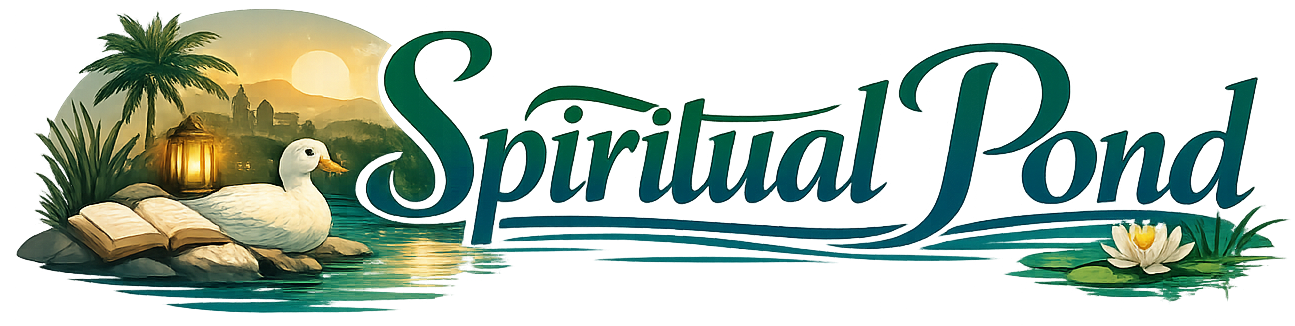
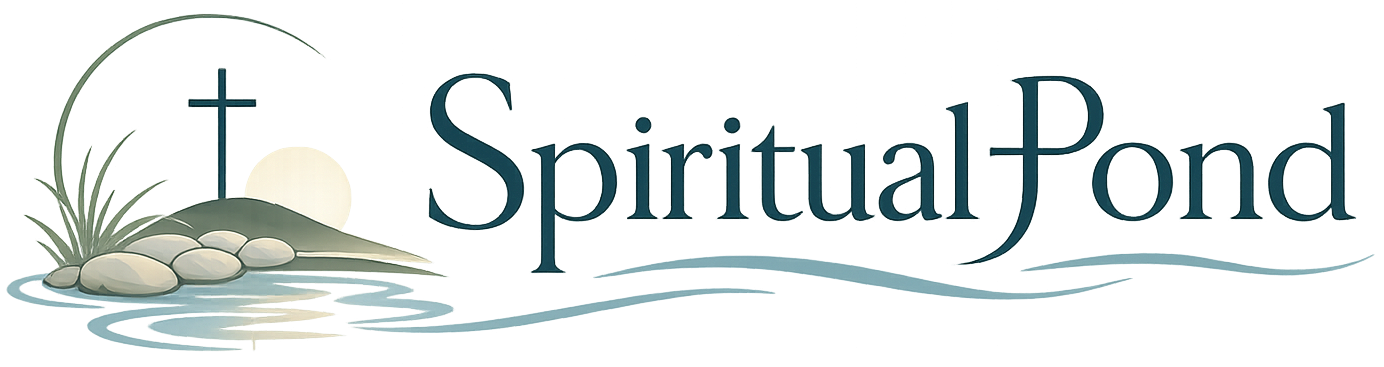
admin

diff --git a/frontend/book.js b/frontend/book.js
@@ -1,5 +1,7 @@
 const BASE_URL = "http://localhost:1337";
 const id = new URLSearchParams(location.search).get("id");
+const token = localStorage.getItem("token");
+const authHeader = { headers: { Authorization: `Bearer ${token}` } };
 
 const renderBook = async () => {
     const response = await axios.get(`${BASE_URL}/api/books/${id}?populate=*`);
@@ -28,13 +30,13 @@ async function addToReadList() {
         const token = localStorage.getItem("token");
         const authHeader = { headers: { Authorization: `Bearer ${token}` } };
 
-        const { data: user } = await axios.get(`${BASE_URL}/api/users/me`, authHeader);
+        const user = await axios.get(`${BASE_URL}/api/users/me`, authHeader);
 
-        const { data: readlistRes } = await axios.get(
-            `${BASE_URL}/api/readlists?filters[users_permissions_user][id][$eq]=${user.id}&populate=books`,
+        const readlistRes = await axios.get(
+            `${BASE_URL}/api/readlists?filters[users_permissions_user][id][$eq]=${user.data.id}&populate=books`,
             authHeader
         );
-        const readlist = readlistRes.data[0];
+        const readlist = readlistRes.data.data[0];
 
         if (readlist) {
             const existingBooks = readlist.books.map(b => b.documentId);
@@ -43,28 +45,25 @@ async function addToReadList() {
             }, authHeader);
         } else {
             await axios.post(`${BASE_URL}/api/readlists`, {
-                data: { books: [id], users_permissions_user: user.id }
+                data: { books: [id], users_permissions_user: user.data.id }
             }, authHeader);
         }
     });
 }
 
 async function rateBook() {
-    const token = localStorage.getItem("token");
-    const authHeader = { headers: { Authorization: `Bearer ${token}` } };
 
-    const { data: user } = await axios.get(`${BASE_URL}/api/users/me`, authHeader);
+    const user = await axios.get(`${BASE_URL}/api/users/me`, authHeader);
 
-    const { data: existing } = await axios.get(
-        `${BASE_URL}/api/user-ratings?filters[users_permissions_user][id][$eq]=${user.id}&filters[book][documentId][$eq]=${id}`,
+    const existing = await axios.get(
+        `${BASE_URL}/api/user-ratings?filters[users_permissions_user][id][$eq]=${user.data.id}&filters[book][documentId][$eq]=${id}`,
         authHeader
     );
-    let ratingDocumentId = existing.data[0]?.documentId || null;
-    const existingRatingValue = existing.data[0]?.Rating || null;
+    let ratingDocumentId = existing.data.data[0]?.documentId || null;
+    const existingRatingValue = existing.data.data[0]?.Rating || null;
 
     const stars = document.querySelectorAll("#stars span");
 
-    // Visa befintligt betyg vid sidladdning
     if (existingRatingValue) {
         stars.forEach(s => {
             s.textContent = parseInt(s.dataset.value) <= existingRatingValue ? "★" : "☆";
@@ -87,7 +86,7 @@ async function rateBook() {
                 }, authHeader);
             } else {
                 const res = await axios.post(`${BASE_URL}/api/user-ratings`, {
-                    data: { Rating: rating, book: id, users_permissions_user: user.id }
+                    data: { Rating: rating, book: id, users_permissions_user: user.data.id }
                 }, authHeader);
                 ratingDocumentId = res.data.data.documentId;
             }
@@ -100,12 +99,12 @@ async function checkReadlistStatus() {
     if (!token) return;
     const authHeader = { headers: { Authorization: `Bearer ${token}` } };
 
-    const { data: user } = await axios.get(`${BASE_URL}/api/users/me`, authHeader);
-    const { data: readlistRes } = await axios.get(
-        `${BASE_URL}/api/readlists?filters[users_permissions_user][id][$eq]=${user.id}&populate=books`,
+    const user = await axios.get(`${BASE_URL}/api/users/me`, authHeader);
+    const readlistRes = await axios.get(
+        `${BASE_URL}/api/readlists?filters[users_permissions_user][id][$eq]=${user.data.id}&populate=books`,
         authHeader
     );
-    const readlist = readlistRes.data[0];
+    const readlist = readlistRes.data.data[0];
     const addToReadBtn = document.querySelector("#addToReadBtn");
 
     if (readlist?.books.some(b => b.documentId === id)) {

diff --git a/frontend/admin.js b/frontend/admin.js
@@ -1,0 +1,30 @@
+const BASE_URL = "http://localhost:1337";
+const token = localStorage.getItem("token");
+const authHeader = { headers: { Authorization: `Bearer ${token}` } };
+
+async function createBook() {
+    const title = document.querySelector("#addBook-title").value;
+    const author = document.querySelector("#addBook-author").value;
+    const pages = document.querySelector("#addBook-pages").value;
+    const release = document.querySelector("#addBook-release").value;
+    const imageFile = document.querySelector("#addBook-image").files[0];
+
+    const formData = new FormData();
+    formData.append("files", imageFile);
+    const uploadRes = await axios.post(`${BASE_URL}/api/upload`, formData, {
+        headers: { Authorization: `Bearer ${token}` }
+    });
+    const imageId = uploadRes.data[0].id;
+
+    await axios.post(`${BASE_URL}/api/books`, {
+        data: {
+            Title: title,
+            Author: author,
+            Pages: parseInt(pages),
+            Release: release,
+            Cover: imageId
+        }
+    }, authHeader);
+
+    window.location.href = "index.html";
+}

diff --git a/frontend/index.js b/frontend/index.js
@@ -2,11 +2,30 @@ const BASE_URL = "http://localhost:1337";
 const token = localStorage.getItem("token");
 const authHeader = { headers: { Authorization: `Bearer ${token}` } };
 
+async function averageRating() {
+    const res = await axios.get(`${BASE_URL}/api/user-ratings?populate=book`);
+    const ratings = res.data.data;
+    const map = {};
+    ratings.forEach(r => {
+        const id = r.book?.documentId;
+        if (!id) return;
+        if (!map[id]) map[id] = [];
+        map[id].push(r.Rating);
+    });
+    const avg = {};
+    for (const id in map) {
+        avg[id] = (map[id].reduce((a, b) => a + b, 0) / map[id].length).toFixed(1);
+    }
+    return avg;
+}
+
 const renderPage = async () => {
+    const avg = await averageRating();
     let response = await axios.get(`${BASE_URL}/api/books?populate=*`);
     let books = response.data.data;
 
     books.forEach(book => {
+        const rating = avg[book.documentId] ?? book.Rating;
         const card = document.createElement("div");
         card.className = "book-container";
         card.innerHTML = `
@@ -15,14 +34,17 @@ const renderPage = async () => {
             <p>${book.Author}</p>
             <p>${book.Pages} pages</p>
             <p>Released ${book.Release}</p>
-            <p><span style="color: #F59E0B;">★</span> ${book.Rating}</p>`;
+            <p><span style="color: #F59E0B;">★</span> ${rating}</p>`
+            ;
+            
         card.addEventListener("click", () => {
             window.location.href = `book.html?id=${book.documentId}`;
         });
         document.querySelector("#book-list").appendChild(card);
     })
 }
-const buttonRendering = () => {
+
+function buttonRendering (){
     const registerBtn = document.querySelector("#registerBtn");
     const loginBtn = document.querySelector("#loginBtn");
     const registerFrame = document.querySelector("#registerFrame");
@@ -55,8 +77,8 @@ const buttonRendering = () => {
 }
 
 async function adminPanel(){
-    const { data: user } = await axios.get(`${BASE_URL}/api/users/me`, authHeader);
-    if (user.Admin === true) {
+    const user = await axios.get(`${BASE_URL}/api/users/me`, authHeader);
+    if (user.data.Admin === true) {
         const adminAddBookBtn = document.querySelector("#admin-addBook");
         adminAddBookBtn.style.display = "flex";
     }

diff --git a/frontend/style.css b/frontend/style.css
@@ -371,6 +371,17 @@ main {
 }
 
 
+a:has(#admin-addBook) {
+    text-decoration: none;
+}
+
 #admin-addBook {
-    display:none;
+    display: none;
+    justify-content: center;
+    align-items: center;
+    font-size: 4rem;
+    height: 50px;
+    width: 50px;
+    color: black;
+    border-radius: 40px;
 }

diff --git a/backend/src/api/theme/controllers/theme.js b/backend/src/api/theme/controllers/theme.js
@@ -1,0 +1,9 @@
+'use strict';
+
+/**
+ * theme controller
+ */
+
+const { createCoreController } = require('@strapi/strapi').factories;
+
+module.exports = createCoreController('api::theme.theme');

diff --git a/backend/src/api/theme/routes/theme.js b/backend/src/api/theme/routes/theme.js
@@ -1,0 +1,9 @@
+'use strict';
+
+/**
+ * theme router
+ */
+
+const { createCoreRouter } = require('@strapi/strapi').factories;
+
+module.exports = createCoreRouter('api::theme.theme');

diff --git a/backend/src/api/theme/services/theme.js b/backend/src/api/theme/services/theme.js
@@ -1,0 +1,9 @@
+'use strict';
+
+/**
+ * theme service
+ */
+
+const { createCoreService } = require('@strapi/strapi').factories;
+
+module.exports = createCoreService('api::theme.theme');

diff --git a/frontend/profile.js b/frontend/profile.js
@@ -9,11 +9,11 @@ let readlistDocumentId = null;
 const renderProfile = async () => {
     if (!token) return;
 
-    const { data: user } = await axios.get(`${BASE_URL}/api/users/me`, authHeader);
-    document.querySelector("#profile-username").textContent = user.username;
+    const user = await axios.get(`${BASE_URL}/api/users/me`, authHeader);
+    document.querySelector("#profile-username").textContent = user.data.username;
 
     const readlistRes = await axios.get(
-        `${BASE_URL}/api/readlists?filters[users_permissions_user][id][$eq]=${user.id}&populate=books.Cover`,
+        `${BASE_URL}/api/readlists?filters[users_permissions_user][id][$eq]=${user.data.id}&populate=books.Cover`,
         authHeader
     );
     const readlist = readlistRes.data.data[0];
@@ -22,7 +22,7 @@ const renderProfile = async () => {
     showReadlist(readlistBooks);
 
     const ratingsRes = await axios.get(
-        `${BASE_URL}/api/user-ratings?filters[users_permissions_user][id][$eq]=${user.id}&populate=book.Cover`,
+        `${BASE_URL}/api/user-ratings?filters[users_permissions_user][id][$eq]=${user.data.id}&populate=book.Cover`,
         authHeader
     );
     ratedEntries = ratingsRes.data.data;

diff --git a/frontend/index.html b/frontend/index.html
@@ -38,10 +38,10 @@
         <button id="login">Login</button>
     </div>
 
+    <a href="admin.html"><p id="admin-addBook">🞡</p></a>
+
     <h2>All Books</h2>
 
-    <ul id="book-list">
-        <a href="admin.html"><button id="admin-addBook"></button></a>
-    </ul>
+    <ul id="book-list"></ul>
 </body>
 </html>

diff --git a/frontend/admin.html b/frontend/admin.html
@@ -14,8 +14,9 @@
     <input id="addBook-title" type="text" placeholder="Title">
     <input id="addBook-author" type="text" placeholder="Author">
     <input id="addBook-pages" type="number" placeholder="Pages">
-    <input id="addBook-title" type="text" placeholder="Title">
-    <input id="addBook-title" type="text" placeholder="Title">
+    <input id="addBook-release" type="date" placeholder="Release date">
+    <input id="addBook-image" type="file" accept="image/*">
+    <button onclick="createBook()">Create book</button>
 
 </body>
 </html>